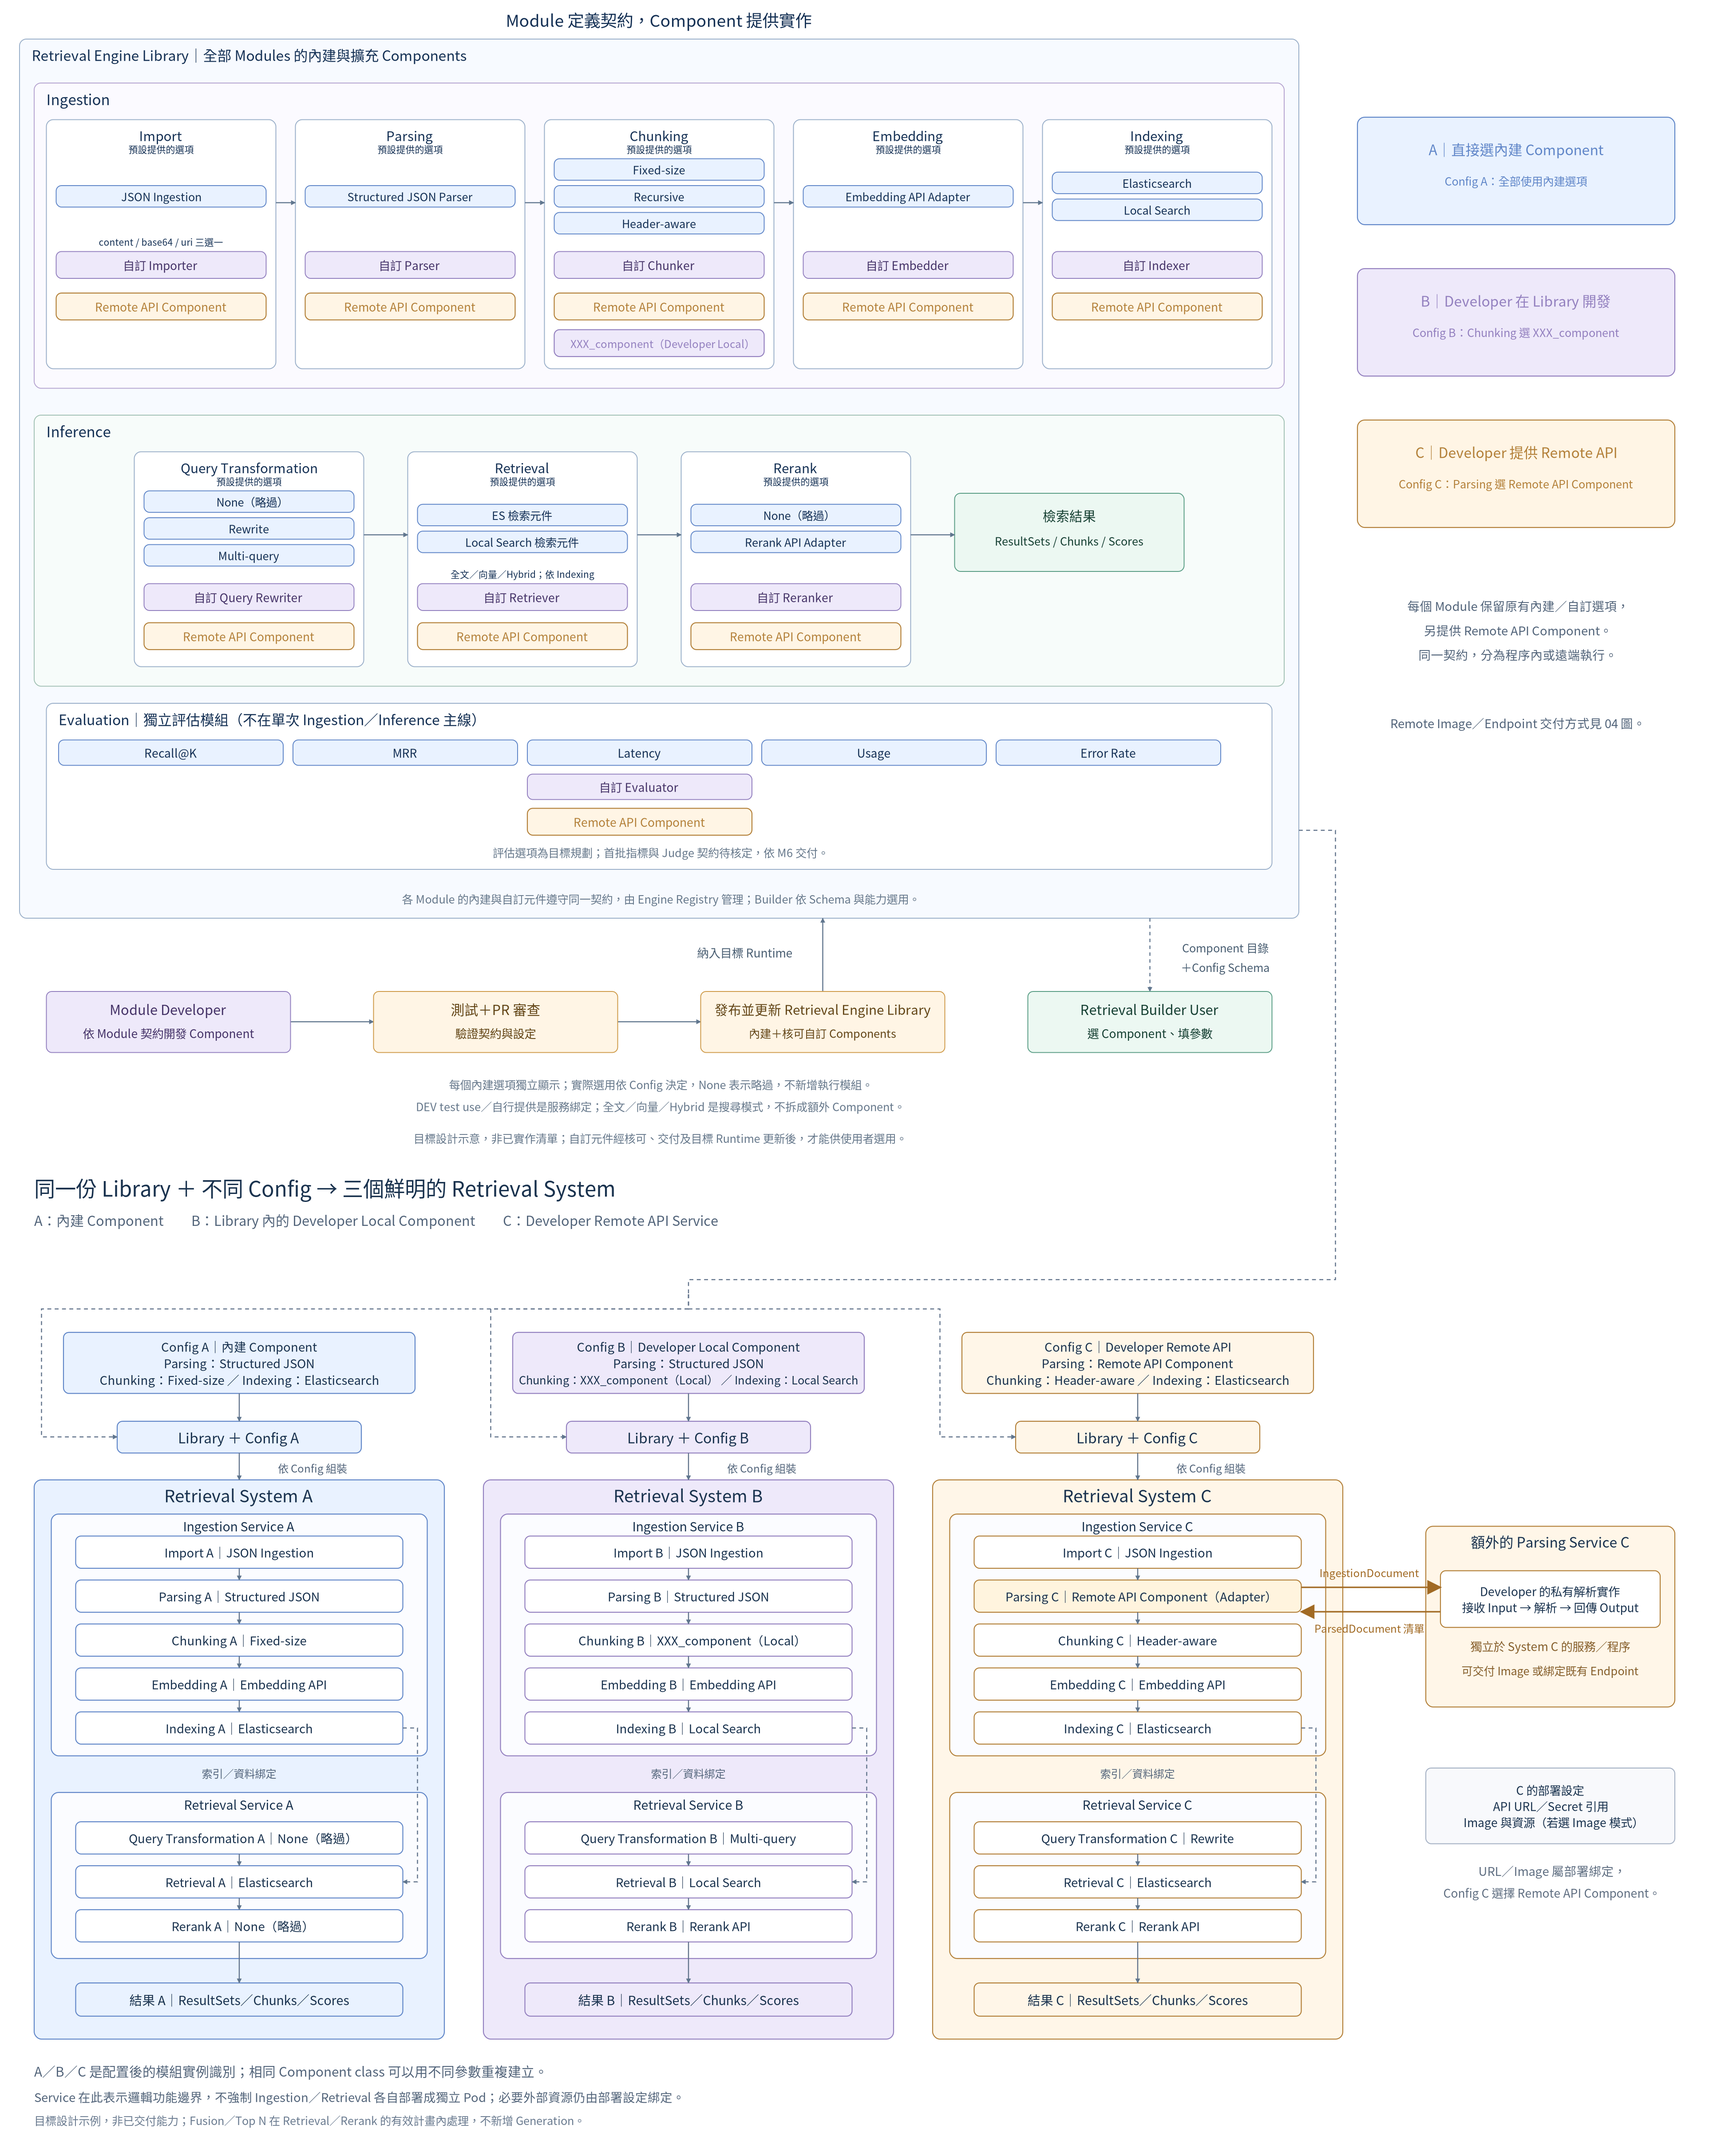
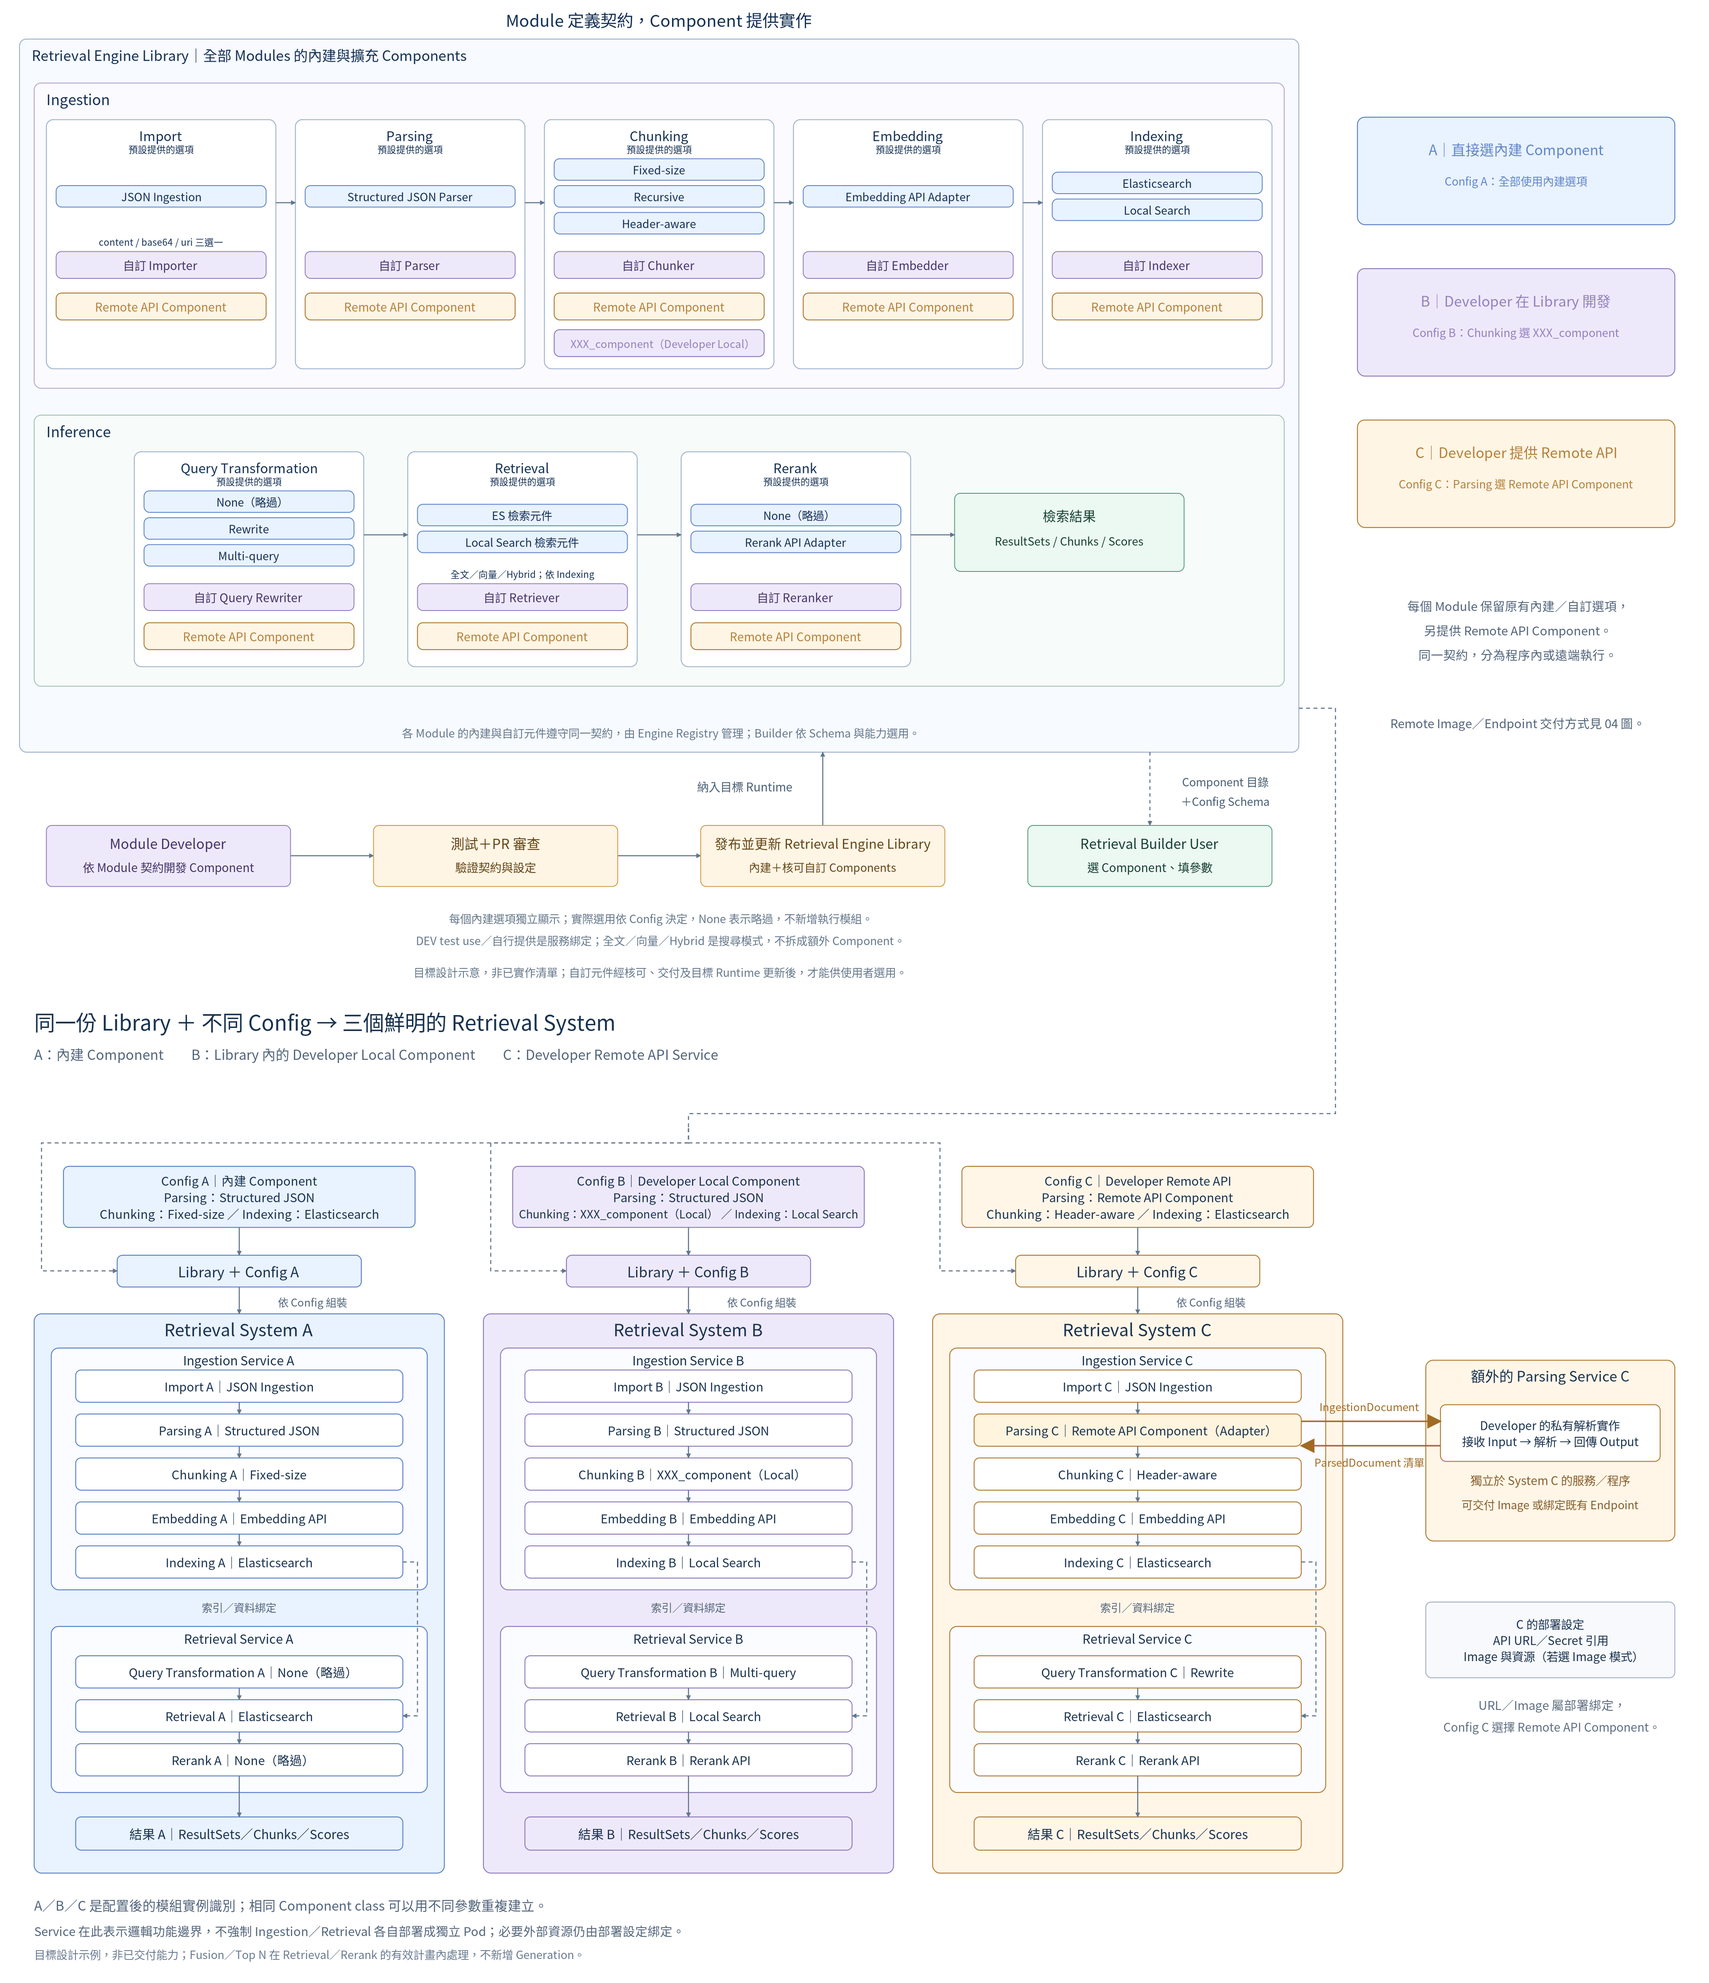
docs: simplify Module/Component diagram by omitting Evaluation
Remove the Evaluation frame, metrics and Remote Evaluator option from diagram 03, compact the layout, and update diagram descriptions to eight Modules. Preserve the three builtin/Local/Remote System examples and other catalog choices.

diff --git a/docs/11_component_developer_guide.md b/docs/11_component_developer_guide.md
@@ -45,7 +45,7 @@ D4 的標題統一為「發布並更新 Retrieval Engine Library」，指共用 
 
 內建 Components 指平台規劃交付的可選項；每個 System 依 Config 選用，不是把某個 Module 的所有 Components 一起執行。自訂 Component 與內建元件走相同契約／Registry；Builder User 不需撰寫程式。Indexing／Retrieval 可能需要成對擴充；Parser／Chunker 共用 Units，但仍需文字欄位與格式能力相容，仍依能力檢查，不因放入元件目錄就自動相容。
 
-[03 圖](../diagrams/03_module_component_concept.png) 上半部恢復完整 Module／Component 目錄、既有內建／自訂選項與 Developer 交付流程；9 個 Module 各提供 Remote API Component 作為目標選項，Chunking 加入示例 XXX_component（Developer Local）。下半部同一 Library 配 Config A／B／C 建立三個 System：A 直接使用內建；B 的 Chunking 選 Library 中已核可的 XXX_component；C 的 Parsing 由 Retrieval Builder 提供的 Remote API Adapter 呼叫 Developer 的 Parsing Service。詳見 [圖說](../diagrams/03_module_component_concept.md)。每個 System 展開 5 個 Ingestion Modules 與 3 個 Retrieval／Inference Modules，A／B／C 是配置後實例，不要求三套 class。Remote API 可交付 Image 或既有 Endpoint；URL／Secret／Image 放部署設定。共用服務／程序邊界、方法可用性、I/O 及格式相容仍依 04／13～16，不因圖中新增選項就視為已實作。
+[03 圖](../diagrams/03_module_component_concept.png) 上半部恢復完整 Module／Component 目錄、既有內建／自訂選項與 Developer 交付流程；8 個 Module 各提供 Remote API Component 作為目標選項，Chunking 加入示例 XXX_component（Developer Local）。下半部同一 Library 配 Config A／B／C 建立三個 System：A 直接使用內建；B 的 Chunking 選 Library 中已核可的 XXX_component；C 的 Parsing 由 Retrieval Builder 提供的 Remote API Adapter 呼叫 Developer 的 Parsing Service。詳見 [圖說](../diagrams/03_module_component_concept.md)。每個 System 展開 5 個 Ingestion Modules 與 3 個 Retrieval／Inference Modules，A／B／C 是配置後實例，不要求三套 class。Remote API 可交付 Image 或既有 Endpoint；URL／Secret／Image 放部署設定。共用服務／程序邊界、方法可用性、I/O 及格式相容仍依 04／13～16，不因圖中新增選項就視為已實作。
 
 2026-10-28 已確認兩個 repo：`rag_platform` 管理 Builder 前後端與整合，`rag_engine` 集中 SDK、Engine、Components／Adapters 與 Runtime API。Module Developer 使用本機 IDE，在 rag_engine 的 components 目錄依 SDK／範本開發，提交 PR 後由同一 repo 的 CI 測試與交付 Runtime。這取代先前以獨立 Component repo 為預設的建議；精確內部目錄、套件名稱及發布工具仍待 Q-001／Q-022 核定。
 
@@ -229,6 +229,7 @@ Python Packaging User Guide 說明以套件 metadata／entry points 發現及載
 | 實作／套件版本記錄、既有 System 升級／索引相容與部署鎖定 | 更新既有資料或正式交付前；Q-015／Q-021／Q-022 | 設計相容檢查與失敗案例，不自動升級 |
 
 這些事項不阻擋本輪文件整理；規格定案與工具實作後，再將介面示意換成經測試、可直接執行的開發教學。完整決策狀態只維護於 08，不因本指南提供建議就自動關閉 Q-ID。
+
 
 
 

diff --git a/diagrams/03_module_component_concept.md b/diagrams/03_module_component_concept.md
@@ -8,7 +8,7 @@
 
 ## 報告說明重點
 
-1. **上半部保留完整 Library 目錄。**原有內建 Component、自訂 Component、Module 及 Developer 測試／發布流程都保留；每個既有選項獨立一格。9 個 Module（Import／Parsing／Chunking／Embedding／Indexing／Query Transformation／Retrieval／Rerank／Evaluation）各增 Remote API Component，不增加 Generation。
+1. **上半部保留完整 Library 目錄。**原有內建 Component、自訂 Component、Module 及 Developer 測試／發布流程都保留；每個既有選項獨立一格。8 個 Module（Import／Parsing／Chunking／Embedding／Indexing／Query Transformation／Retrieval／Rerank）各增 Remote API Component，不增加 Generation。
 2. **A：直接使用內建。**Config A 選既有 Component，無須開發者額外交付方法程式。內建 API Adapter 仍可能呼叫模型／DB，並不表示所有處理都沒有外部依賴。
 3. **B：使用 Developer 在 Library 開發的 Local Component。**Chunking 目錄新增 XXX_component，Config B 選它，System B 的實例標為「Chunking B｜XXX_component（Local）」。圖中的名稱是示例；正式 component_id／版本依 Registry 規範登錄，不新增名為 XXX_component 的 Module。
 4. **C：使用 Developer 的 Remote API Service。**Config C 的 Parsing 選 Remote API Component，System C 內仍是 Retrieval Builder 提供的 Parsing C Adapter，私有解析邏輯在額外的 Parsing Service。傳入 IngestionDocument、回傳 list[ParsedDocument]；Image Deployment／External Endpoint 交付均適用，見 [04](04_component_delivery_modes.md)。
@@ -27,7 +27,7 @@ C 的例子假設遠端 Parser 產出相容、保留 Markdown 標題的 Unit.tex
 - 實線表示組裝或執行順序；虛線表示共用 Library 或索引／資料綁定，並不表示 Query 會重新跑 Ingestion。
 - Parsing C 與額外服務的雙向箭頭是 HTTP request／response；不是每一個 Module 都需要變成獨立微服務。
 - Ingestion Service／Retrieval Service 是邏輯功能邊界；Runtime 的程序、Pod 與多 System 配置仍由架構／部署政策決定。
-- Evaluation 獨立於單次處理主線；Fusion／Top N 由配置的結果處理計畫執行，這裡不新增 Module 或 Generation。
+- Fusion／Top N 由配置的結果處理計畫執行，這裡不新增 Module 或 Generation。
 
 
 ## Remote API 目錄的解讀
@@ -35,3 +35,4 @@ C 的例子假設遠端 Parser 產出相容、保留 Markdown 標題的 Unit.tex
 每個 Module 的 Remote API Component 是該 Module 契約下的 Adapter，並非一支不檢查資料的通用 HTTP 呼叫器。Config Schema／能力／版本／錯誤仍需登錄與驗證；有狀態的 Indexing／Retrieval 還需匹配索引、資料版本及讀寫政策。圖中新增目標選項不代表已有完整 HTTP／部署契約或正式實作。
 
 Developer 的 Local Component 沿原有 PR／測試／Runtime Image 交付；Remote Developer 可保留私有實作，交付 API Image 或端點。Runtime 必須已包含相容 Adapter，目錄與服務綁定亦須驗證，不能把外部程式直接塞入 Config 執行。
+
